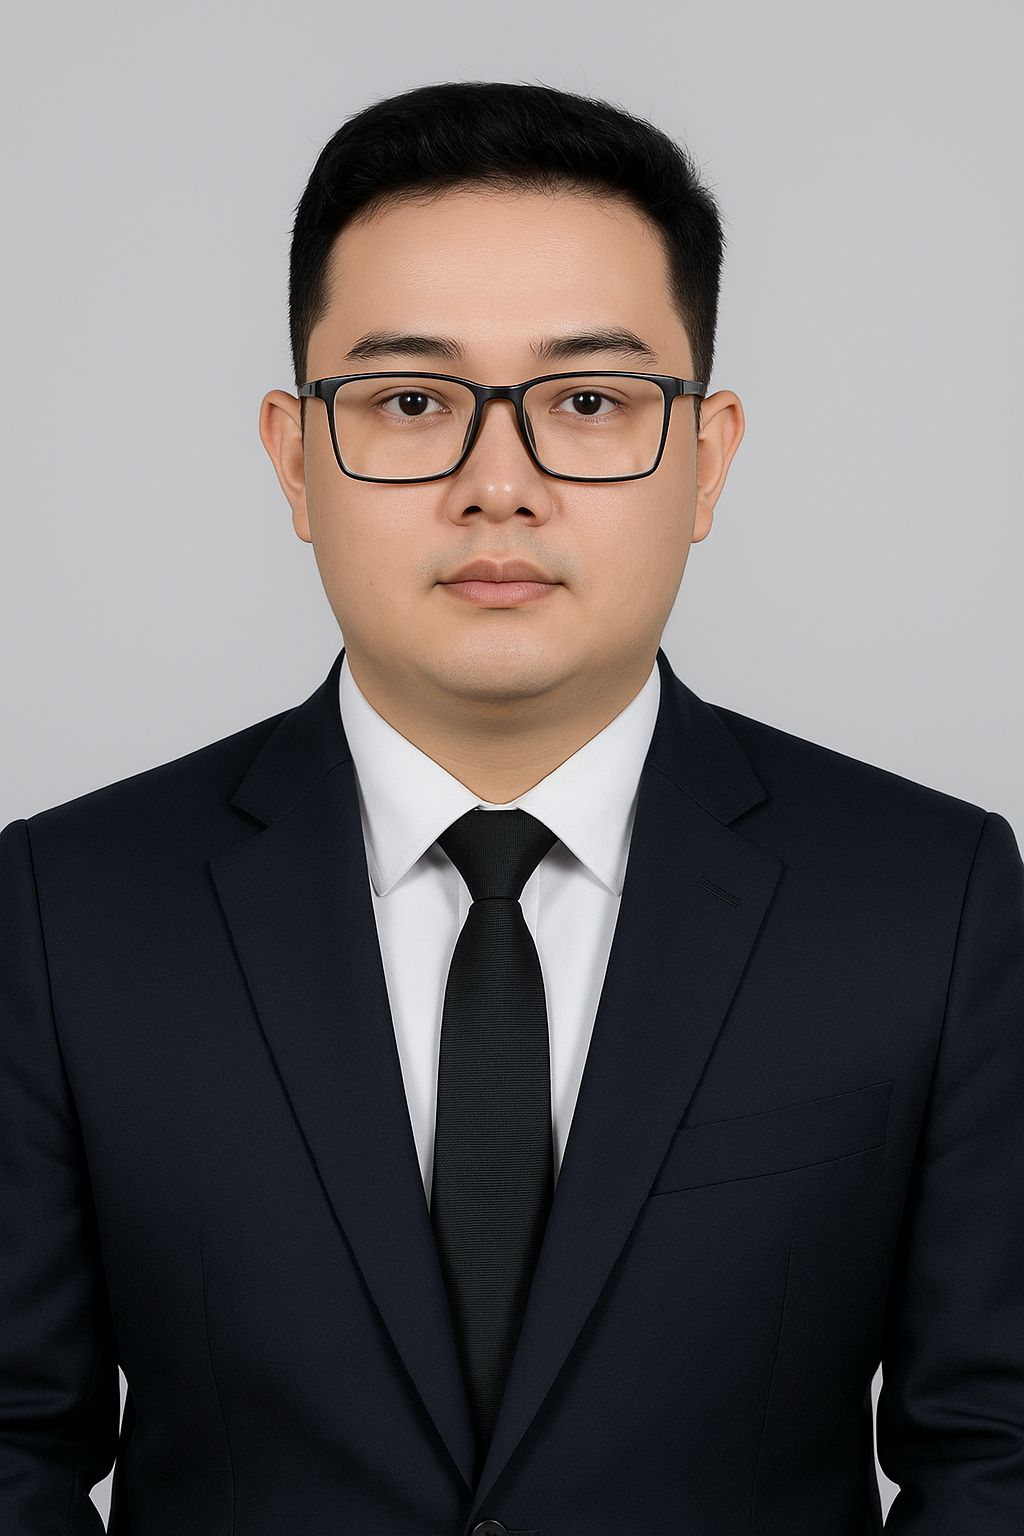
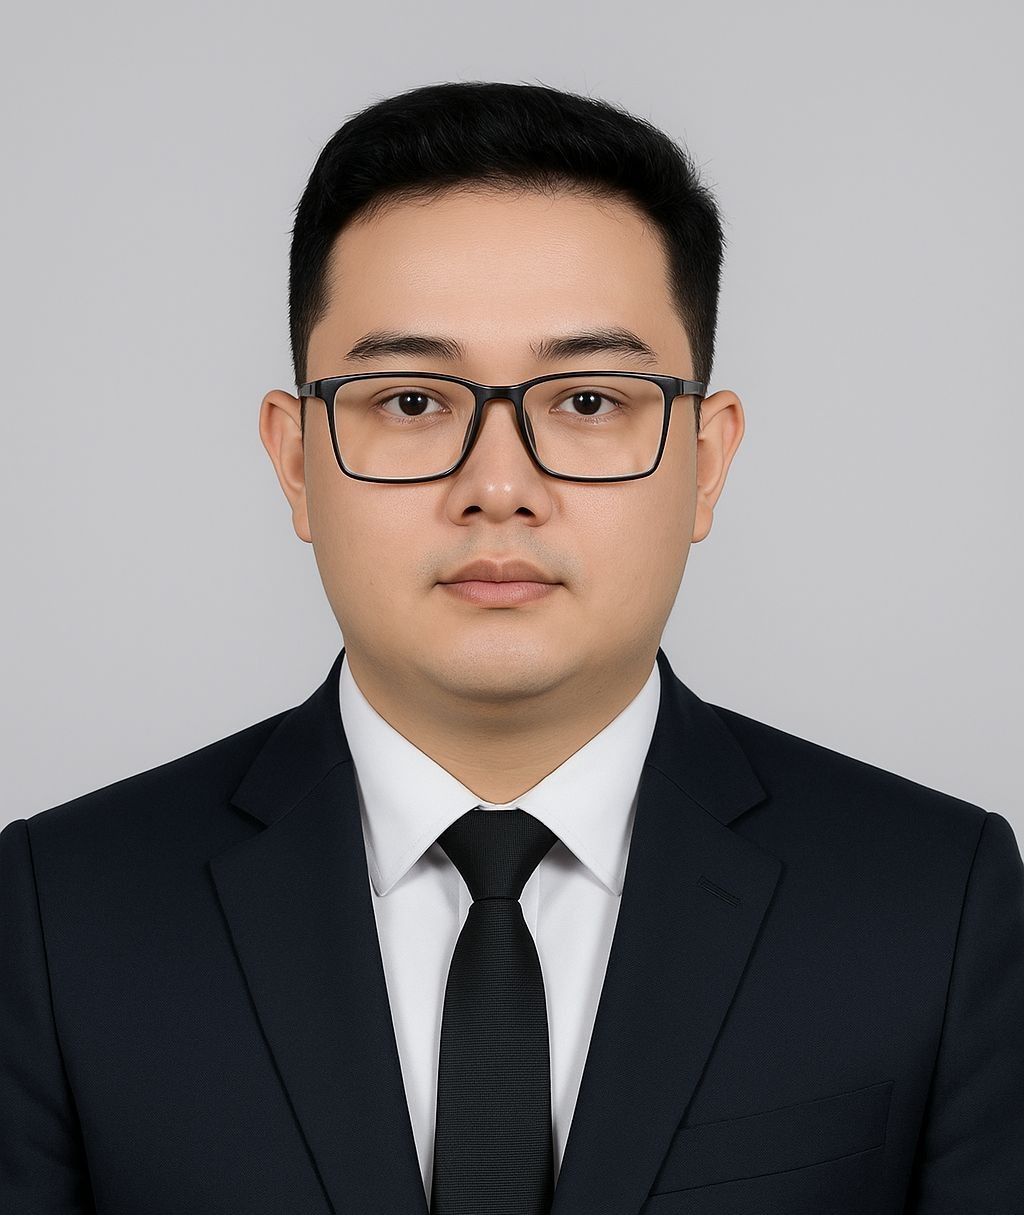
update

diff --git a/cv.html b/cv.html
@@ -1,86 +1,179 @@
 <!DOCTYPE html>
 <html lang="id">
-<head>
-  <meta charset="UTF-8">
-  <meta name="viewport" content="width=device-width, initial-scale=1.0">
-  <title>CV - Mugia Adha Kusumah</title>
-  <style>
-    * { box-sizing: border-box; }
-    body { font-family: 'Segoe UI', sans-serif; margin: 0; padding: 0; background: #f1f1f1; color: #333; }
-    .container { max-width: 900px; margin: auto; background: white; padding: 40px; box-shadow: 0 0 20px rgba(0,0,0,0.1); }
-    header { display: flex; align-items: center; border-bottom: 2px solid #eee; padding-bottom: 20px; }
-    .info { margin-left: 20px; }
-    h1 { margin: 0; font-size: 32px; color: #2c3e50; }
-    h2 { color: #2980b9; margin-top: 40px; border-bottom: 2px solid #eee; padding-bottom: 5px; }
-    ul { padding-left: 20px; }
-    .section { margin-bottom: 30px; }
-    .skills-grid { display: grid; grid-template-columns: repeat(auto-fill, minmax(150px, 1fr)); gap: 10px; }
-    .contact p, .education p { margin: 5px 0; }
-    .bold { font-weight: bold; }
-    @media (max-width: 600px) {
-      header { flex-direction: column; align-items: flex-start; }
-      .info { margin-left: 0; margin-top: 10px; }
-    }
-  </style>
-</head>
-<body>
-  <div class="container">
-    <header>
-      <img src="https://via.placeholder.com/100x120" alt="Foto Mugia" style="border-radius: 8px;">
-      <div class="info">
-        <h1>Mugia Adha Kusumah</h1>
-        <p><strong>Full Stack Web Developer</strong></p>
-        <p>Experienced Web Developer adept in all stages of advanced web development. Knowledgeable in user interface, testing, and debugging processes.</p>
-      </div>
-    </header>
+  <head>
+    <meta charset="UTF-8" />
+    <meta name="viewport" content="width=device-width, initial-scale=1.0" />
+    <title>CV - Mugia Adha Kusumah</title>
+    <style>
+      * {
+        box-sizing: border-box;
+      }
+      body {
+        font-family: "Segoe UI", sans-serif;
+        margin: 0;
+        padding: 0;
+        background: #f1f1f1;
+        color: #333;
+      }
+      .container {
+        max-width: 900px;
+        margin: auto;
+        background: white;
+        padding: 40px;
+        box-shadow: 0 0 20px rgba(0, 0, 0, 0.1);
+      }
+      header {
+        display: flex;
+        align-items: center;
+        border-bottom: 2px solid #eee;
+        padding-bottom: 20px;
+      }
+      .info {
+        margin-left: 20px;
+      }
+      h1 {
+        margin: 0;
+        font-size: 32px;
+        color: #2c3e50;
+      }
+      h2 {
+        color: #2980b9;
+        margin-top: 40px;
+        border-bottom: 2px solid #eee;
+        padding-bottom: 5px;
+      }
+      ul {
+        padding-left: 20px;
+      }
+      .section {
+        margin-bottom: 30px;
+      }
+      .skills-grid {
+        display: grid;
+        grid-template-columns: repeat(auto-fill, minmax(150px, 1fr));
+        gap: 10px;
+      }
+      .contact p,
+      .education p {
+        margin: 5px 0;
+      }
+      .bold {
+        font-weight: bold;
+      }
+      @media (max-width: 600px) {
+        header {
+          flex-direction: column;
+          align-items: flex-start;
+        }
+        .info {
+          margin-left: 0;
+          margin-top: 10px;
+        }
+      }
+    </style>
+  </head>
+  <body>
+    <div class="container">
+      <header>
+        <img
+          src="./img/foto-profile.jpeg"
+          alt="Foto Mugia"
+          width="200px"
+          height="200px"
+          style="border-radius: 8px"
+        />
+        <div class="info">
+          <h1>Mugia Adha Kusumah</h1>
+          <p><strong>Full Stack Web Developer</strong></p>
+          <p>
+            Experienced Web Developer adept in all stages of advanced web
+            development. Knowledgeable in user interface, testing, and debugging
+            processes.
+          </p>
+        </div>
+      </header>
 
-    <div class="section">
-      <h2>Kontak</h2>
-      <div class="contact">
-        <p><span class="bold">Telepon:</span> +62 8515 9080 404</p>
-        <p><span class="bold">Email:</span> mugiaadha@gmail.com</p>
-        <p><span class="bold">Lokasi:</span> Bogor, Indonesia</p>
+      <div class="section">
+        <h2>Kontak</h2>
+        <div class="contact">
+          <p><span class="bold">Telepon:</span> +62 8515 9080 404</p>
+          <p><span class="bold">Email:</span> mugiaadha@gmail.com</p>
+          <p><span class="bold">Lokasi:</span> Bogor, Indonesia</p>
+        </div>
+      </div>
+
+      <div class="section">
+        <h2>Pendidikan</h2>
+        <div class="education">
+          <p>
+            <span class="bold">SMK Adi Sanggoro</span> - Rekayasa Perangkat
+            Lunak (2013 - 2016)
+          </p>
+          <p>
+            <span class="bold">Mercubuana University</span> - Teknik Informatika
+            (2019 - Sekarang)
+          </p>
+        </div>
+      </div>
+
+      <div class="section">
+        <h2>Pengalaman</h2>
+        <p>
+          <strong>PT Investree Radhika Jaya, Jakarta Selatan</strong> <br />
+          <em>Full Stack Web Developer (2016 - 2024)</em>
+        </p>
+        <ul>
+          <li>
+            Optimized database queries untuk meningkatkan performa dan response
+            time
+          </li>
+          <li>
+            Refactor kode legacy untuk meningkatkan reliability, scalability,
+            dan maintainability
+          </li>
+          <li>Kembangkan aplikasi web custom dengan Laravel</li>
+          <li>Gunakan Eloquent ORM dan MySQL untuk manajemen data</li>
+          <li>Bangun UI interaktif dengan AJAX, jQuery, dan JavaScript</li>
+          <li>Buat aplikasi web cross-browser compatible</li>
+          <li>Dukung tim dengan pengelolaan product & sprint backlog</li>
+        </ul>
+
+        <p>
+          <strong>PT Investree Radhika Jaya, Jakarta Selatan</strong> <br />
+          <em>Full Stack Web Developer (2016 - 2024)</em>
+        </p>
+        <ul>
+          <li>
+            Optimized database queries untuk meningkatkan performa dan response
+            time
+          </li>
+          <li>
+            Refactor kode legacy untuk meningkatkan reliability, scalability,
+            dan maintainability
+          </li>
+          <li>Kembangkan aplikasi web custom dengan Laravel</li>
+          <li>Gunakan Eloquent ORM dan MySQL untuk manajemen data</li>
+          <li>Bangun UI interaktif dengan AJAX, jQuery, dan JavaScript</li>
+          <li>Buat aplikasi web cross-browser compatible</li>
+          <li>Dukung tim dengan pengelolaan product & sprint backlog</li>
+        </ul>
+      </div>
+
+      <div class="section">
+        <h2>Keahlian</h2>
+        <div class="skills-grid">
+          <div>HTML & CSS</div>
+          <div>Javascript</div>
+          <div>PHP</div>
+          <div>Laravel</div>
+          <div>MySQL</div>
+          <div>VueJS</div>
+          <div>JQuery</div>
+          <div>Git</div>
+          <div>Java</div>
+          <div>Kotlin</div>
+        </div>
       </div>
     </div>
-
-    <div class="section">
-      <h2>Pendidikan</h2>
-      <div class="education">
-        <p><span class="bold">SMK Adi Sanggoro</span> – Rekayasa Perangkat Lunak (2013 – 2016)</p>
-        <p><span class="bold">Mercubuana University</span> – Teknik Informatika (2019 – Sekarang)</p>
-      </div>
-    </div>
-
-    <div class="section">
-      <h2>Pengalaman</h2>
-      <p><strong>PT Investree Radhika Jaya, Jakarta Selatan</strong> <br>
-      <em>Full Stack Web Developer (2016 – Present)</em></p>
-      <ul>
-        <li>Optimized database queries untuk meningkatkan performa dan response time</li>
-        <li>Refactor kode legacy untuk meningkatkan reliability, scalability, dan maintainability</li>
-        <li>Kembangkan aplikasi web custom dengan Laravel</li>
-        <li>Gunakan Eloquent ORM dan MySQL untuk manajemen data</li>
-        <li>Bangun UI interaktif dengan AJAX, jQuery, dan JavaScript</li>
-        <li>Buat aplikasi web cross-browser compatible</li>
-        <li>Dukung tim dengan pengelolaan product & sprint backlog</li>
-      </ul>
-    </div>
-
-    <div class="section">
-      <h2>Keahlian</h2>
-      <div class="skills-grid">
-        <div>HTML & CSS</div>
-        <div>Javascript</div>
-        <div>PHP</div>
-        <div>Laravel</div>
-        <div>MySQL</div>
-        <div>VueJS</div>
-        <div>JQuery</div>
-        <div>Git</div>
-        <div>Java</div>
-        <div>Kotlin</div>
-      </div>
-    </div>
-  </div>
-</body>
+  </body>
 </html>
